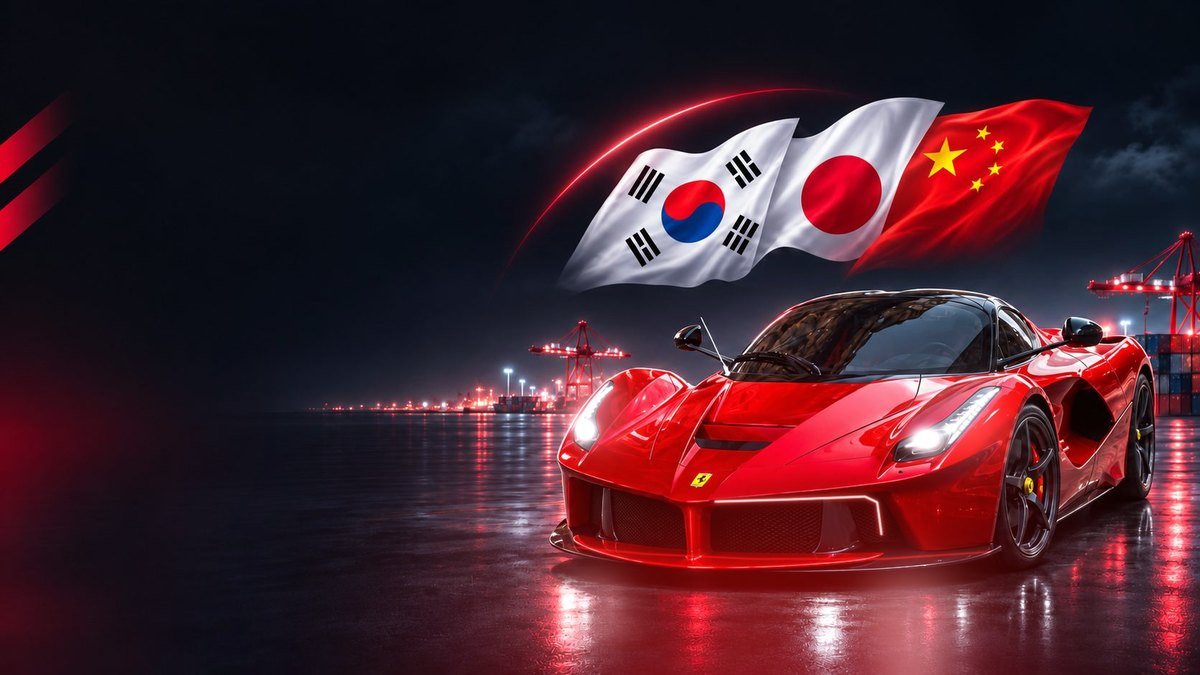
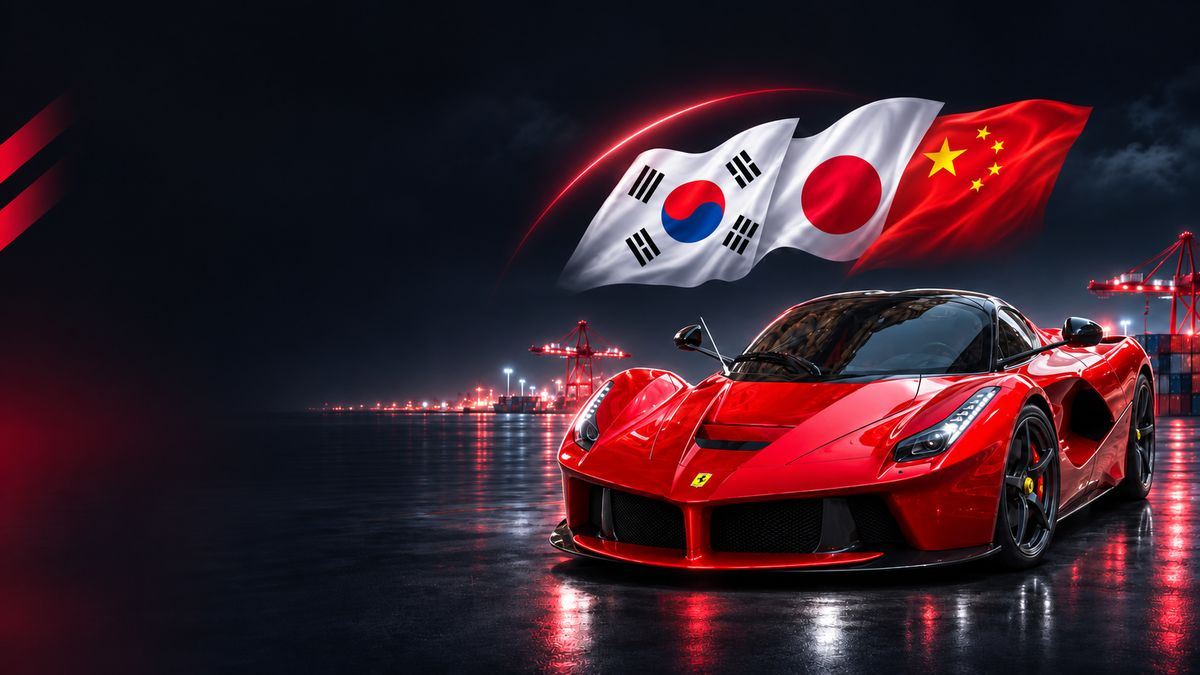
Убрана вступительная анимация главной
Главная сразу открывается готовой картинкой с текстом. Удалены js/intro.js,
стили и слои анимации, возвращена исходная картинка главной (без горящих фар).

Claude-Session: https://claude.ai/code/session_01QUwKFVCep3XnHL9Nnc91Sr

Changed region(s): [[0.3083, 0.5289, 1.0, 1.0], [0.555, 0.6222, 0.6475, 0.6844]]

diff --git a/css/style.css b/css/style.css
@@ -671,73 +671,7 @@ html, body { overflow-x: hidden; }
   html, body { overflow-x: clip; }
 }
 html, body { overscroll-behavior-x: none; }
-/* ==========================================================
-   Вступительная анимация главного экрана (js/intro.js)
-   Сцена собрана в координатах исходной картинки 1672×941: асфальт, машина по слоям
-   (тень и отражение, шины, вращающиеся диски, кузов), свет фар. Движение, вращение колёс
-   и подвеску считает JS, здесь — только раскладка слоёв и появление флагов и текста.
-   Пока html.intro — всё скрыто в начальном положении; в конце временные слои удаляются.
-   ========================================================== */
-.hero__media::after { z-index: 1; }
-.intro-stage {
-  position: absolute; left: 0; top: 0; z-index: 1; width: 1672px; height: 941px;
-  transform-origin: 0 0; pointer-events: none; overflow: hidden;
-}
-.intro-stage > *, .intro-car > * { position: absolute; display: block; }
-.intro-road, .intro-flags, .intro-car, .intro-black { left: 0; top: 0; width: 1672px; height: 941px; }
-.intro-road img, .intro-flags img { position: absolute; inset: 0; width: 100%; height: 100%; }
-.intro-car { transform-origin: 1780px 573px; opacity: 0; will-change: transform, opacity; }
-.intro-body { will-change: transform; }
-.intro-rim { background-repeat: no-repeat; }
-.intro-stage--glow { overflow: visible; mix-blend-mode: screen; }
-.intro-lights { opacity: 0; }
-.intro-black { background: #040405; }
-/* флаги: сначала их закрывает кусок пустого неба, потом он «сходит» слева направо */
-.intro-flags {
-  -webkit-mask-image: url("../assets/img/intro/flags-mask.png"), linear-gradient(90deg, transparent 0 40%, #000 60% 100%);
-  mask-image: url("../assets/img/intro/flags-mask.png"), linear-gradient(90deg, transparent 0 40%, #000 60% 100%);
-  -webkit-mask-size: 100% 100%, 250% 100%; mask-size: 100% 100%, 250% 100%;
-  -webkit-mask-repeat: no-repeat; mask-repeat: no-repeat;
-  -webkit-mask-position: 0 0, 100% 0; mask-position: 0 0, 100% 0;
-  -webkit-mask-composite: source-in; mask-composite: intersect;
-}
-html.intro-flagsgo .intro-flags { animation: introFlags 1.5s cubic-bezier(.45,.05,.25,1) both; }
-@keyframes introFlags {
-  from { -webkit-mask-position: 0 0, 100% 0; mask-position: 0 0, 100% 0; }
-  to   { -webkit-mask-position: 0 0, 0% 0; mask-position: 0 0, 0% 0; }
-}
-/* текст и плашки ждут, пока машина встанет и появятся флаги */
-html.intro .header { animation: introFade 1.2s var(--ease-soft) .1s both paused; }
-html.intro .hero__title span { animation: introLine 1.15s var(--ease-soft) 0s both paused; }
-html.intro .hero__title span + span { animation-delay: .12s; }
-html.intro .hero__sub { animation: introUp 1.1s var(--ease-soft) .26s both paused; }
-html.intro .hero__text { animation: introUp 1.1s var(--ease-soft) .38s both paused; }
-html.intro .hero__text::before { animation: introBar .9s var(--ease-soft) .5s both paused; }
-html.intro .hero__actions .btn { animation: introUp 1s var(--ease-soft) .52s both paused; }
-html.intro .hero__actions .btn + .btn { animation-delay: .62s; }
-html.intro .feature { animation: introUp 1s var(--ease-soft) .7s both paused; }
-html.intro .feature:nth-child(2) { animation-delay: .78s; }
-html.intro .feature:nth-child(3) { animation-delay: .86s; }
-html.intro .hero__tag { animation: introTag .9s var(--ease-soft) .35s both paused; }
-html.intro .hero__tag--budget { animation-delay: .5s; }
-html.intro.intro-go .header { animation-play-state: running; }
-html.intro.intro-text .hero__title span, html.intro.intro-text .hero__sub, html.intro.intro-text .hero__text,
-html.intro.intro-text .hero__text::before, html.intro.intro-text .hero__actions .btn, html.intro.intro-text .feature,
-html.intro.intro-text .hero__tag { animation-play-state: running; }
-@keyframes introFade { from { opacity: 0; transform: translateY(-12px); } to { opacity: 1; transform: none; } }
-@keyframes introLine {
-  from { opacity: 0; transform: translate3d(-48px, 0, 0) skewX(-6deg); }
-  to   { opacity: 1; transform: none; }
-}
-@keyframes introUp {
-  from { opacity: 0; transform: translate3d(0, 26px, 0); }
-  to   { opacity: 1; transform: none; }
-}
-@keyframes introBar { from { transform: skewX(-14deg) scaleY(0); } to { transform: skewX(-14deg) scaleY(1); } }
-@keyframes introTag {
-  from { opacity: 0; transform: translate3d(0, 10px, 0) scale(.86); }
-  to   { opacity: 1; transform: none; }
-}
+
 
 
 /* ==========================================================

diff --git a/index.html b/index.html
@@ -11,21 +11,9 @@
 <link rel="preconnect" href="https://fonts.gstatic.com" crossorigin>
 <link href="https://fonts.googleapis.com/css2?family=Exo+2:wght@500;600;700&family=Manrope:wght@400;500;600;700;800&family=Montserrat:ital,wght@0,700;0,800;1,800;1,900&display=swap" rel="stylesheet">
 <link rel="stylesheet" href="css/style.css">
-<script>
-/* вступительная анимация: включаем до первой отрисовки, чтобы не мигала готовая картинка */
-(function(){try{var d=document.documentElement,r=document.referrer,h=location.hash;
-if(matchMedia('(prefers-reduced-motion: reduce)').matches)return;
-if(h&&h!=='#home'&&h!=='#top')return;
-if(r){var u=new URL(r);if(u.host===location.host&&u.pathname!==location.pathname)return;}
-d.classList.add('intro');
-['body','wheels','under','lights','rim-f','rim-r'].forEach(function(n){(new Image).src='assets/img/intro/'+n+'.webp';});
-setTimeout(function(){if(!d.classList.contains('intro-go'))d.classList.remove('intro');},4000);
-}catch(e){}})();
-</script>
 <script src="js/main.js" defer></script>
 <script src="js/cars-data.js" defer></script>
 <script src="js/home.js" defer></script>
-<script src="js/intro.js" defer></script>
 <script src="js/contacts.js" defer></script>
 </head>
 <body id="top">

diff --git a/README.md b/README.md
@@ -4,7 +4,7 @@
 
 ## Устройство
 **`index.html`** — главная, разделы идут друг за другом:
-1. `#home` — главная (вступительная анимация — `js/intro.js`: машина подъезжает с вращающимися колёсами, тормозит, зажигает фары, затем флаги и текст; слои — `assets/img/intro/`)
+1. `#home` — главная
 2. `#about` — о компании
 3. `#catalog` — кнопка «Перейти в каталог» → `catalog.html`
 4. `#deal` — как проходит сделка (7 этапов)
